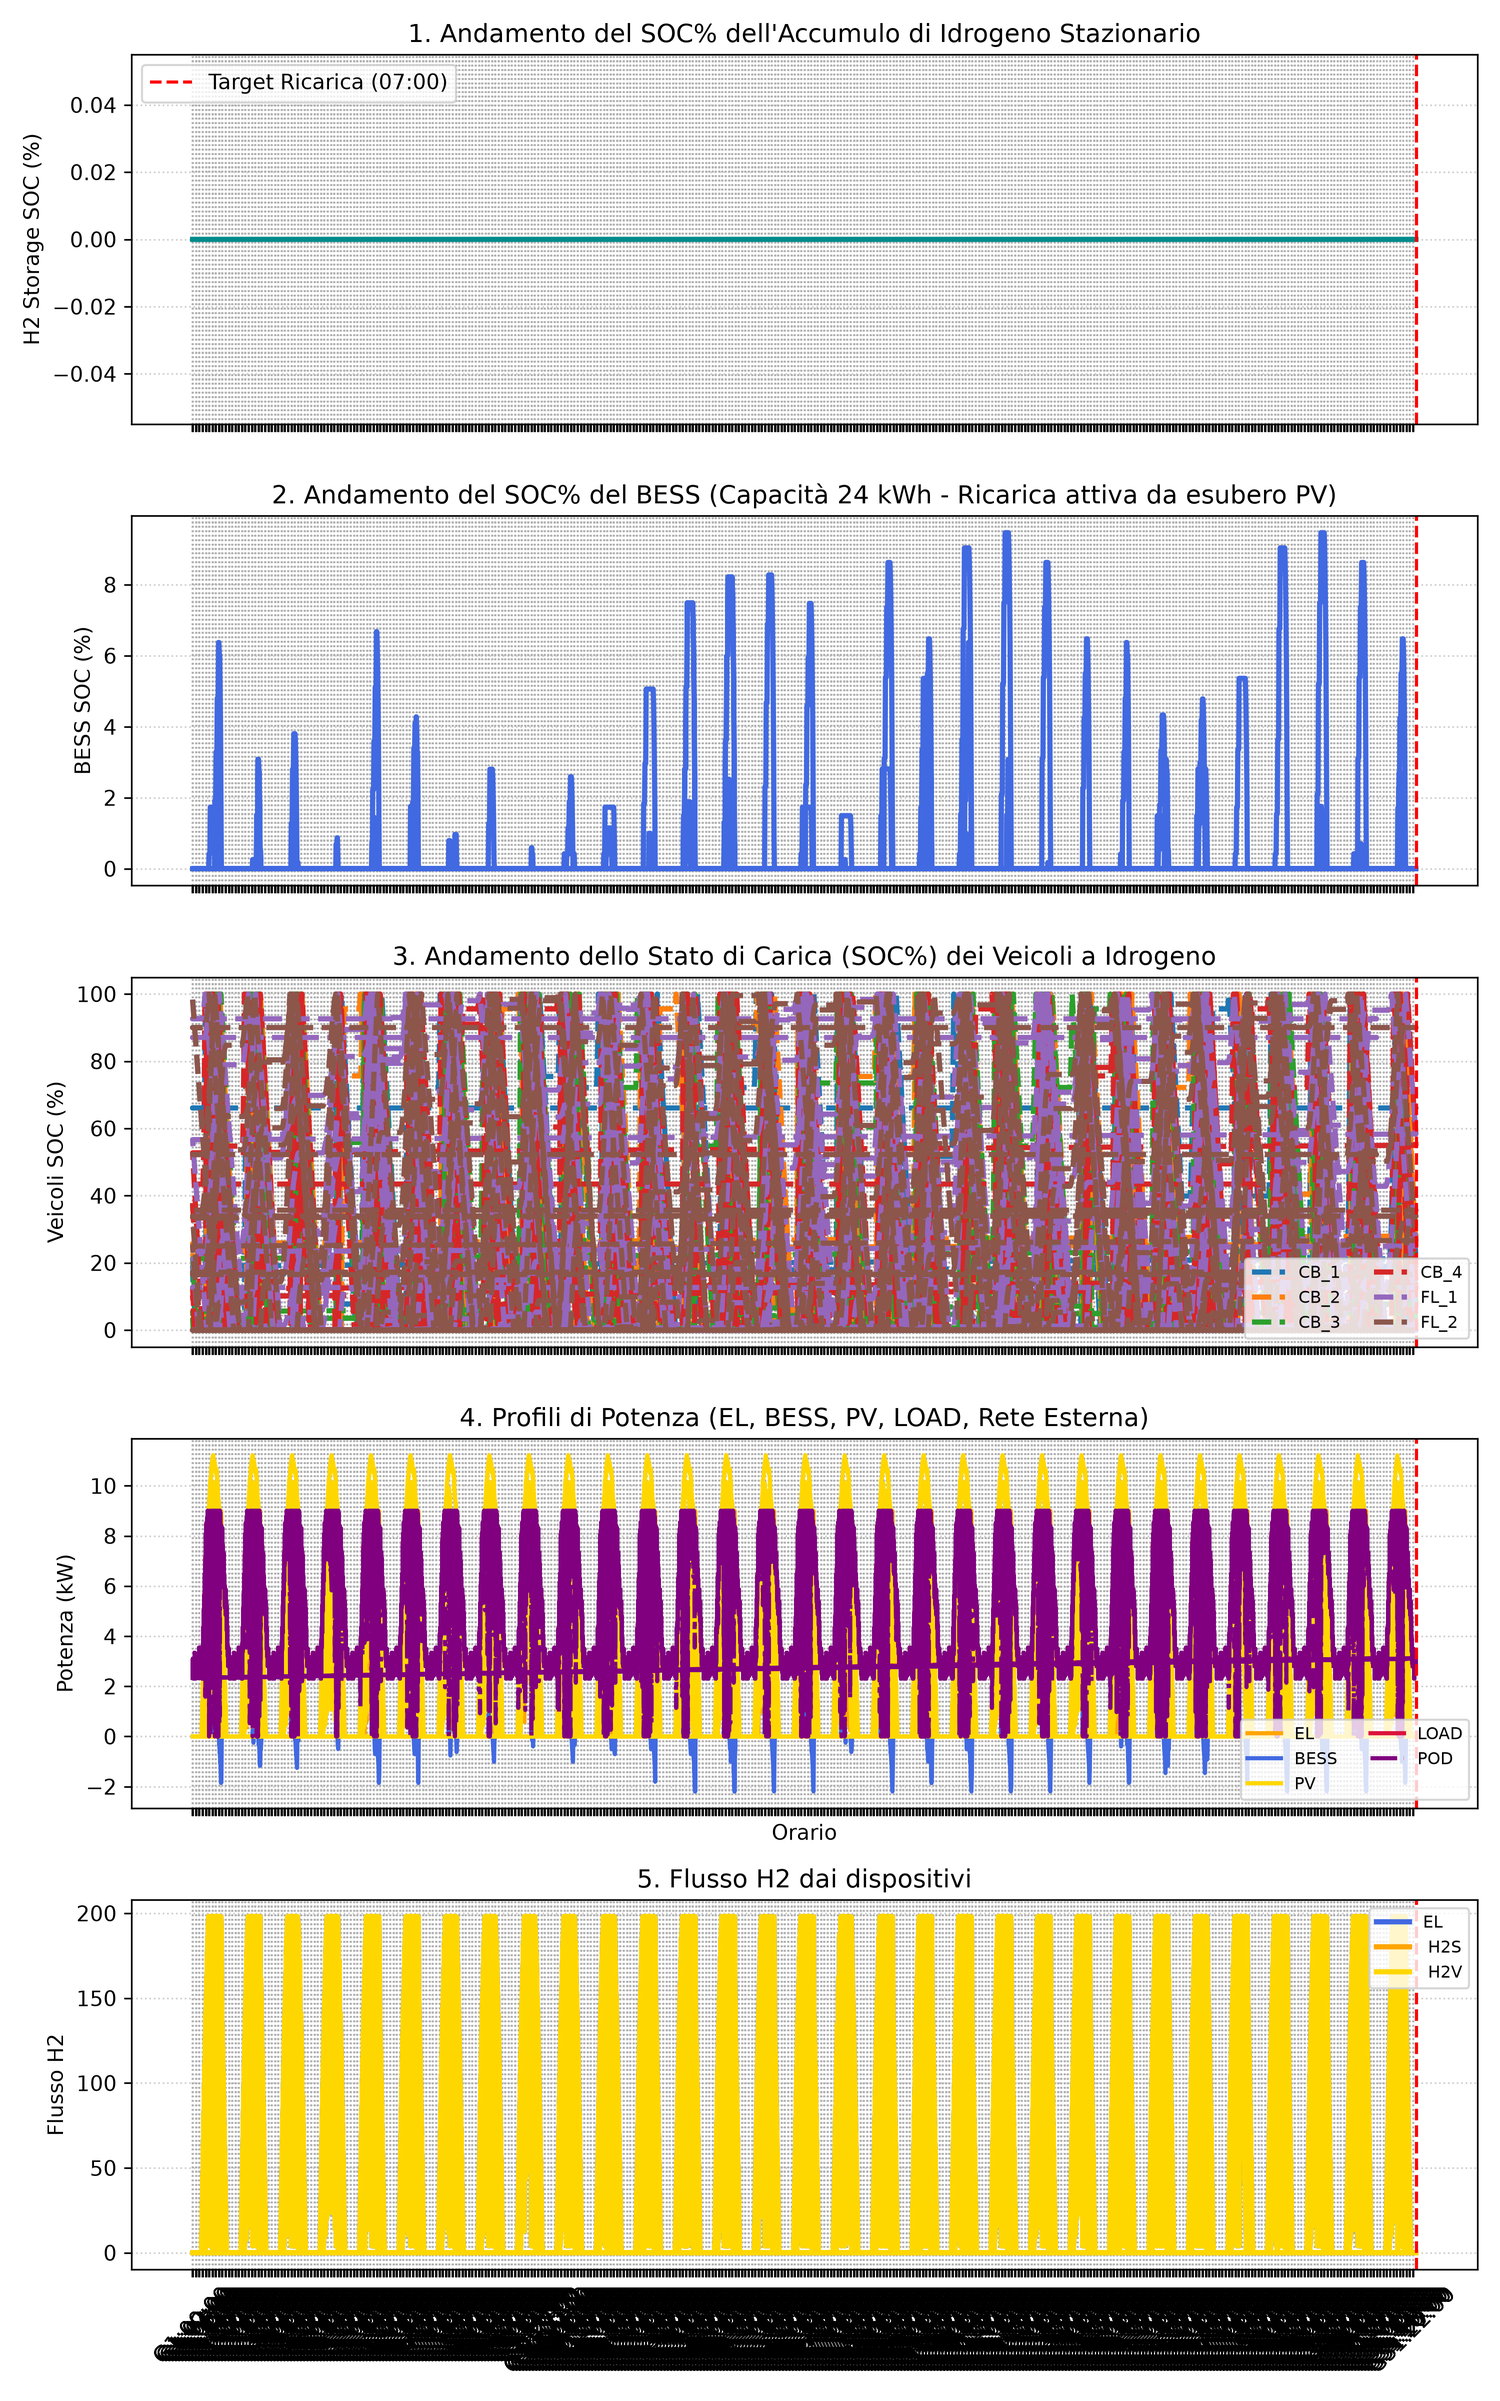
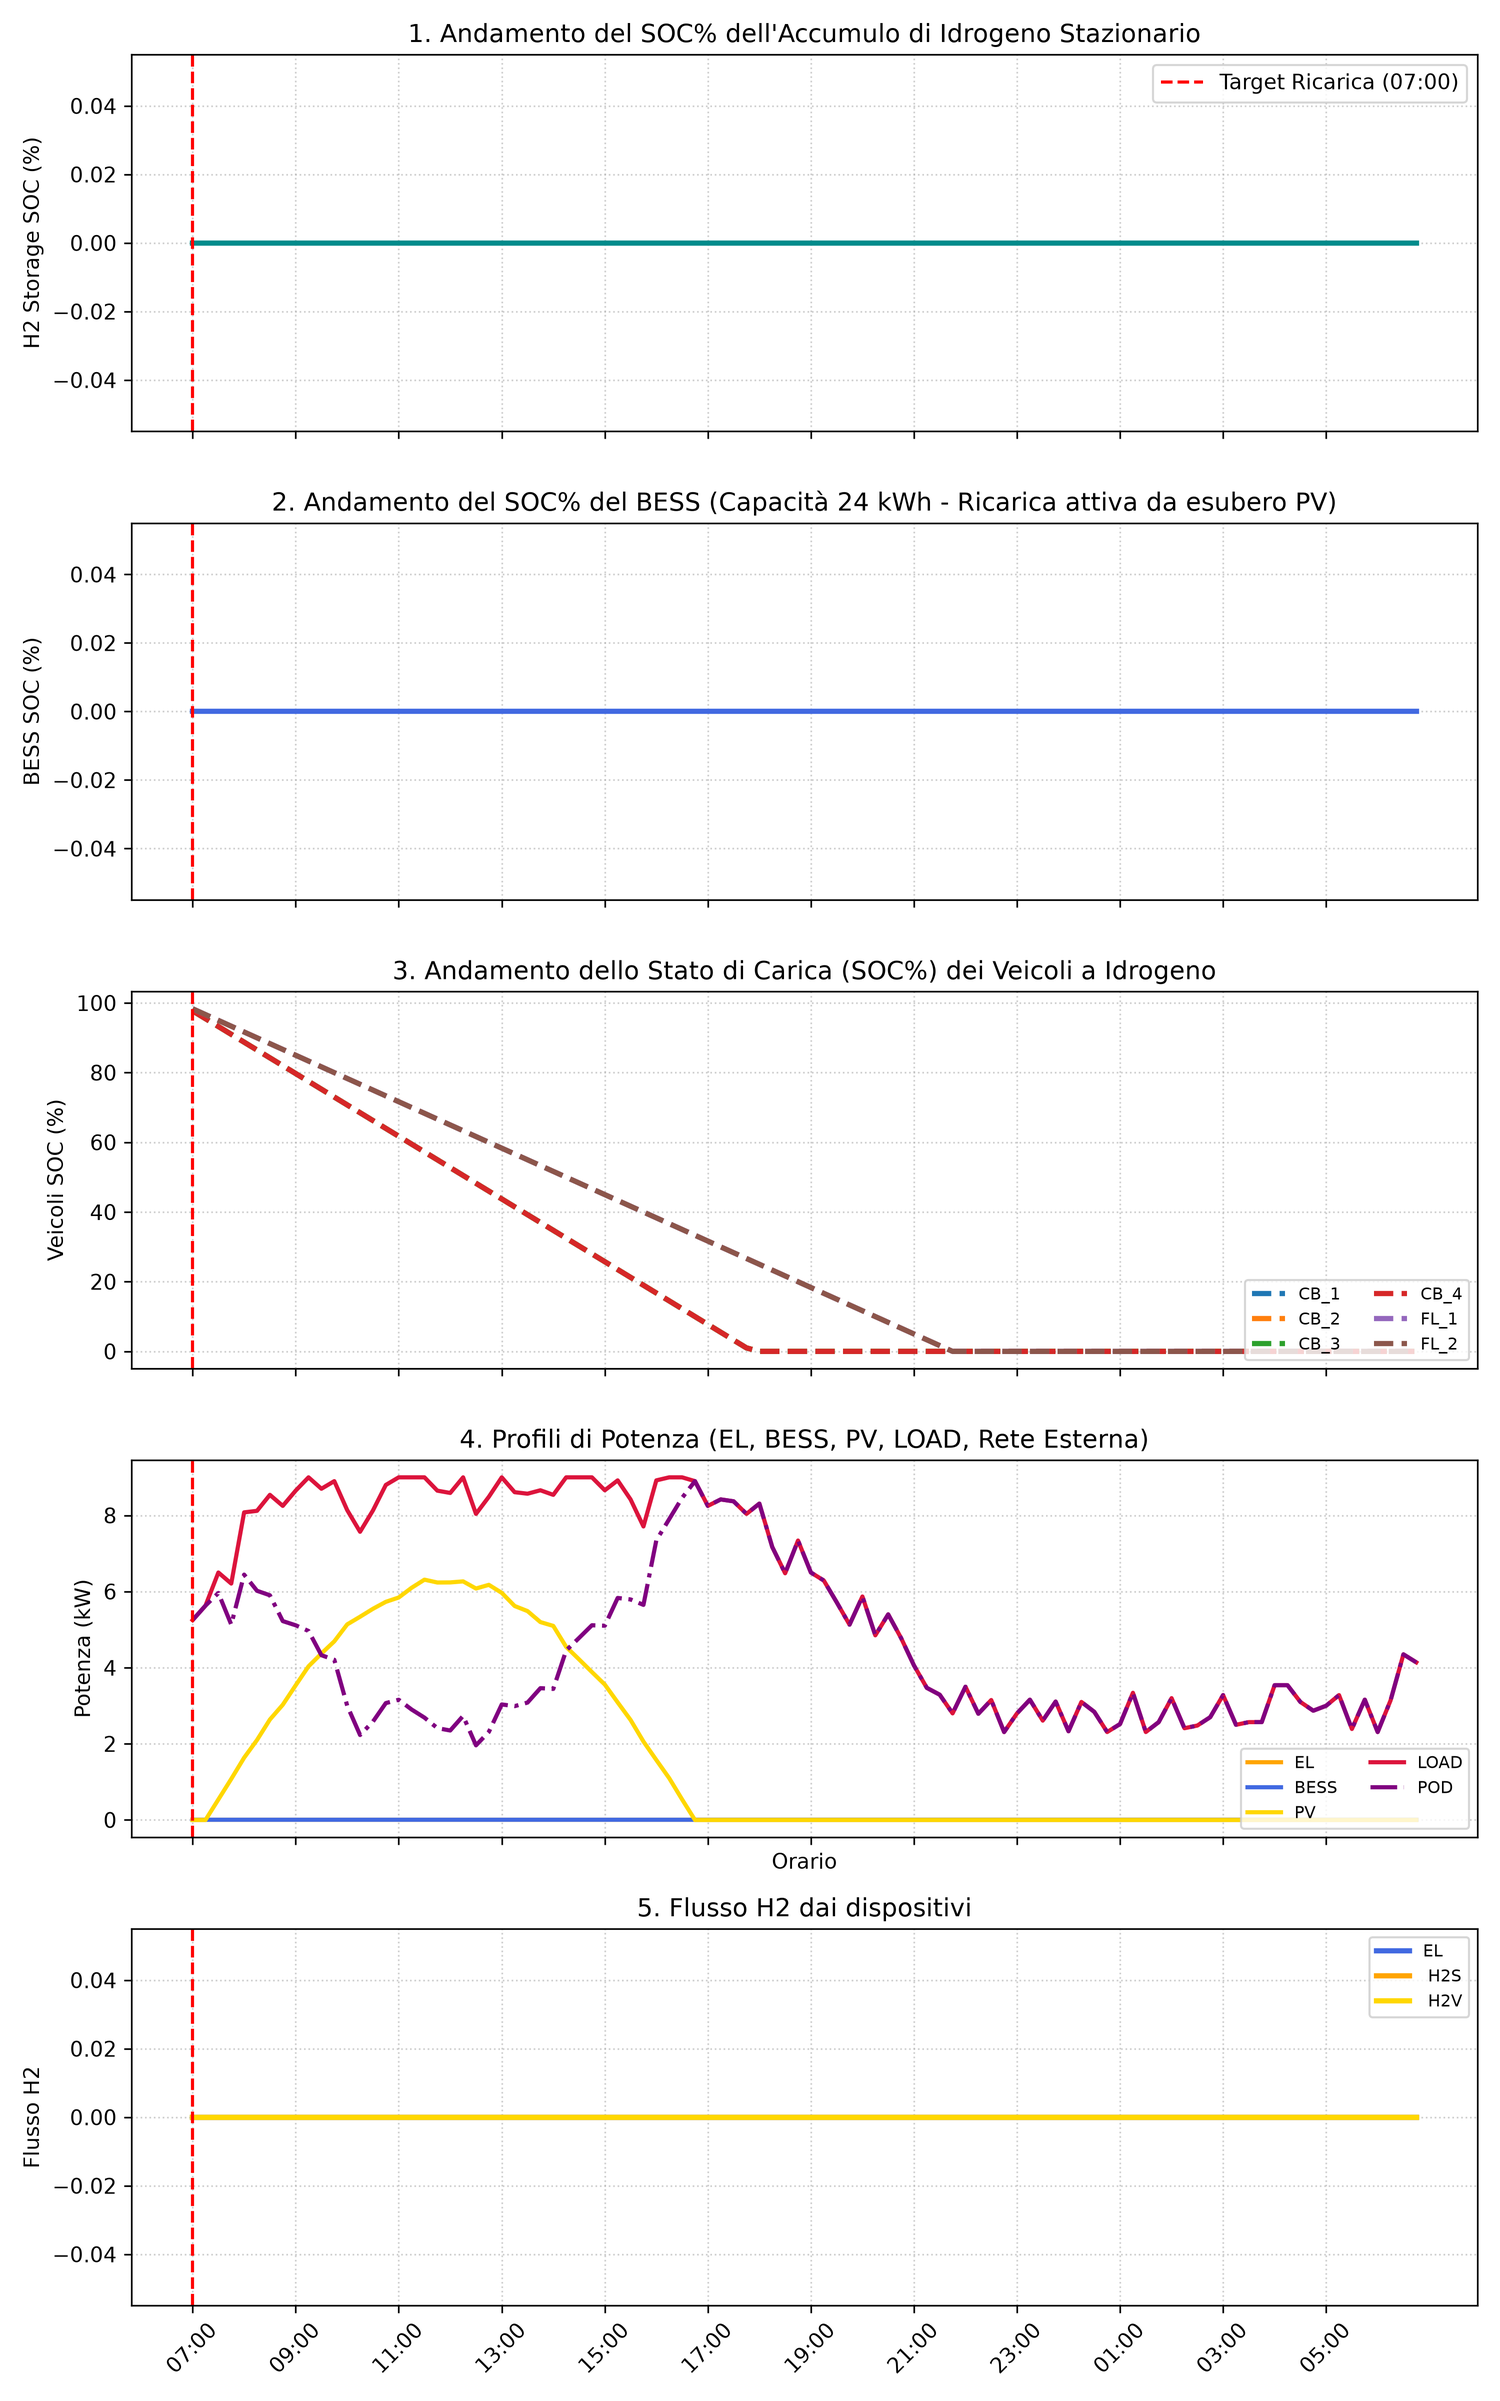
NModifica per generazione dati per Rapporto tecnico

diff --git a/model.py b/model.py
@@ -54,13 +54,16 @@ params = {
 
 
 class Model:
-    def __init__(self, df, dt=0.25, par=params, h2v_chg_max_n=3):
+    def __init__(self, df, dt=0.25, par=params, h2v_chg_max_n=3, name=''):
         # ==========================================
         # 1. CARICAMENTO DATI E INIZIALIZZAZIONE
         # ==========================================
         self.df = df
         self.n_steps = len(self.df)
         self.dt = dt  # Intervalli di 15 minuti in ore
+
+        self.name = name
+        self.uc = None
 
         self.h2v_chg_max_n = h2v_chg_max_n
 
@@ -127,6 +130,8 @@ class Model:
         # ==========================================
         # 2. CICLO DI SIMULAZIONE TEMPORALE
         # ==========================================
+        self.uc = uc
+
         h2v_to_chg_order = []
         h2v_in_chg_order = []
 
@@ -143,7 +148,10 @@ class Model:
 
             timestamp_val = pd.to_datetime(row['Timestamp'])
             curr_time = timestamp_val.hour + timestamp_val.minute / 60.0
-            ora_str = timestamp_val.strftime('%Y-%m-%d %H:%M')
+            if len(self.df) <= 96:
+                ora_str = timestamp_val.strftime('%H:%M')
+            else:
+                ora_str = timestamp_val.strftime('%Y-%m-%d %H:%M')
 
             # Modellazione PV con correzione termica
             self.par['pv']['t_cell'] = self.par['pv']['temp'] + self.par['pv']['irr'] * 0.03
@@ -379,13 +387,14 @@ class Model:
 
         return kpi
 
-    def xlsx_export(self, excel_output_filename="risultati_dettagliati_microgrid.xlsx"):
+    def xlsx_export(self):
         # ==========================================
         # 3. ESPORTAZIONE IN EXCEL
         # ==========================================
         # excel_output_filename = "risultati_dettagliati_microgrid.xlsx"
-        self.df_res.to_excel(excel_output_filename, index=False)
-        print(f"File Excel dettagliato generato con successo: {excel_output_filename}")
+        filename = f'{self.name}_uc={self.uc}_sim_chg={self.h2v_chg_max_n}_detailed_output.xlsx'
+        self.df_res.to_excel(filename, index=False)
+        print(f"File Excel dettagliato generato con successo: {filename}")
 
     def output_print(self):
         # ==========================================
@@ -416,7 +425,7 @@ class Model:
 
         print("==================================================")
 
-    def graphs(self):
+    def graphs(self, name = ''):
         # ==========================================
         # 5. GENERAZIONE DEI GRAFICI (4 Subplots)
         # ==========================================
@@ -476,9 +485,11 @@ class Model:
 
         plt.xticks(self.df_res['Ora'][::8], rotation=45)
         plt.tight_layout()
-        plt.savefig('microgrid_simulation_results.png', dpi=300)
+
+        filename = f'{name}_uc={self.uc}_sim_chg={self.h2v_chg_max_n}.png'
+        plt.savefig(filename, dpi=300)
         plt.close()
-        print("Grafici generati e salvati in 'microgrid_simulation_results.png'.")
+        print(f"Grafici generati e salvati in '{filename}'.")
 
 
 if __name__ == "__main__":

diff --git a/main.py b/main.py
@@ -9,31 +9,43 @@ from pd_gen import PDgen
 # 2: Combo: 100% rinnovabile + accumulo
 # 3: Max Power
 
-# df = pd.read_excel('dati test.xlsx')
+input_file = '_winter_'
+h2v_chg_max_n=3
+uc=3
 
-# pd_gen = PDgen()
-# df = pd_gen.generator()
-#
-# model = Model(df=df, h2v_chg_max_n=1)
-# kpi = model.sim(uc=3)
-# model.output_print()
-
-
-pd_gen = PDgen()
-df = pd_gen.generator()
 results = []
 
-for h2v_chg_max_n in range(1, 7):
-    model = Model(df=df, h2v_chg_max_n=h2v_chg_max_n)
-    for uc in range(1,4):
-        kpi = model.sim(uc=uc)
-        # model.xlsx_export()
-        model.output_print()
-        # # model.graphs()
-        results.append(kpi)
-        print(f"\n\nTerminato caso\tCarica simultanea: {h2v_chg_max_n}\tCaso d'uso: {uc}")
+for input_file in ['_spring_', '_summer_', '_autumn_', '_winter_', ]:
+    for uc in range(1, 4):
+        df = pd.read_excel(f'{input_file}.xlsx')
 
+        # pd_gen = PDgen()
+        # df = pd_gen.generator()
+
+        model = Model(df=df, h2v_chg_max_n=h2v_chg_max_n)
+        kpi = model.sim(uc=uc)
+        model.output_print()
+        model.graphs(name=input_file)
+        results.append(kpi)
+
+        filename = f'{input_file}_uc={uc}_sim_chg={h2v_chg_max_n}'
+
+        # pd_gen = PDgen()
+        # df = pd_gen.generator()
+        # results = []
+        # output_name = ''
+        #
+        # for h2v_chg_max_n in range(1, 7):
+        #     model = Model(df=df, h2v_chg_max_n=h2v_chg_max_n)
+        #     for uc in range(1,4):
+        #         kpi = model.sim(uc=uc)
+        #         # model.xlsx_export()
+        #         model.output_print()
+        #         # # model.graphs()
+        #         results.append(kpi)
+        #         print(f"\n\nTerminato caso\tCarica simultanea: {h2v_chg_max_n}\tCaso d'uso: {uc}")
+#
 df_res = pd.DataFrame(results)
-df_res.to_excel('output_file.xlsx', index=False)
+df_res.to_excel(f'All_seasons_output_file.xlsx', index=False)
 
 
